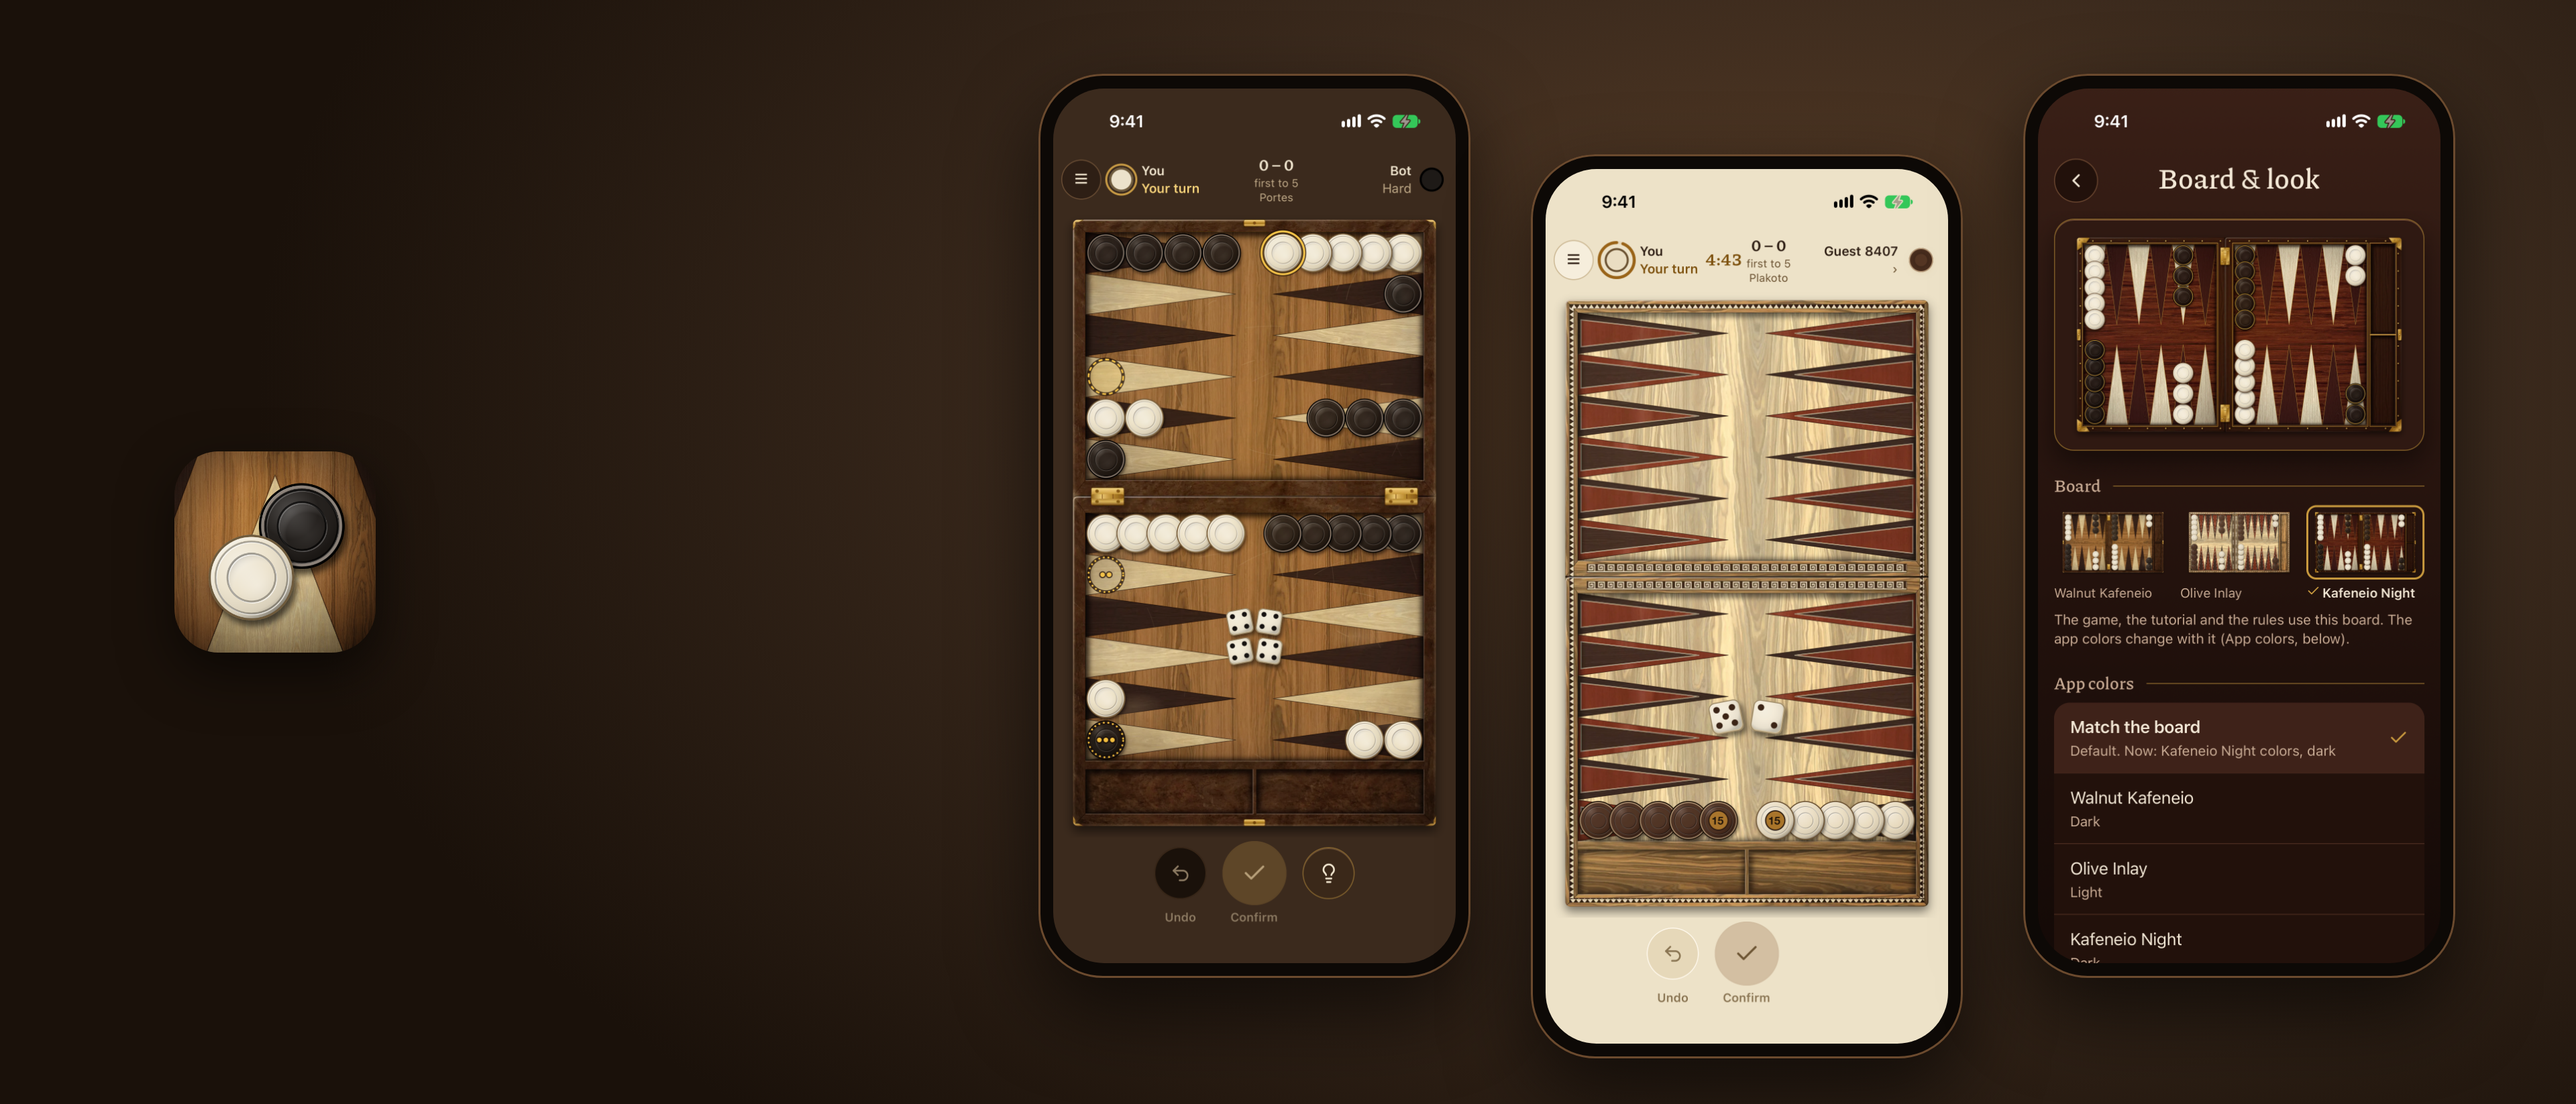
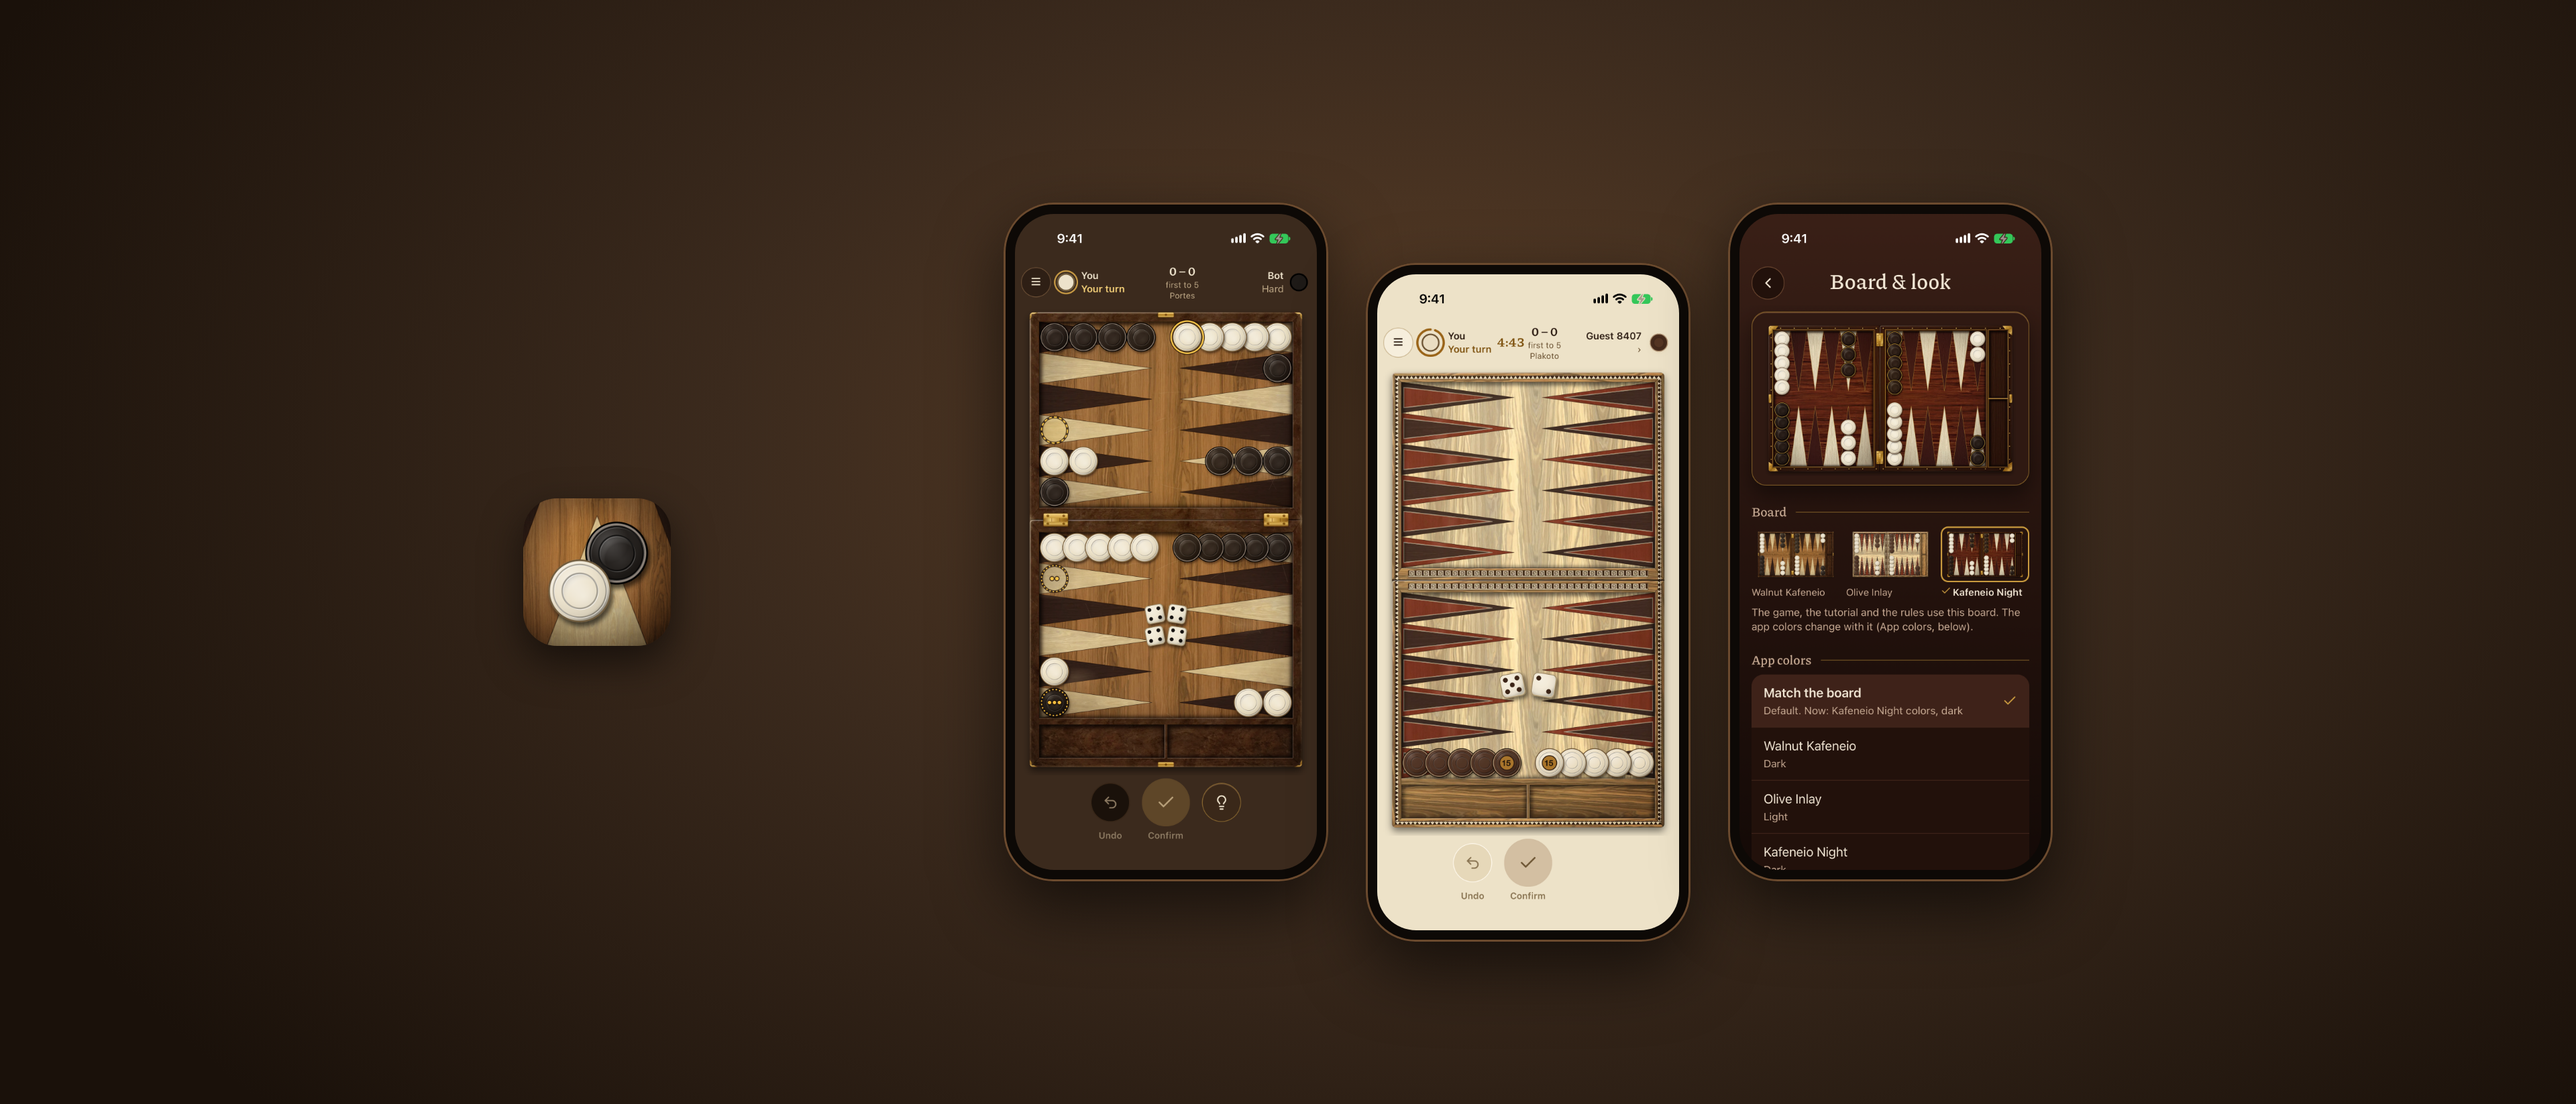
docs: fit the store header into the iPhone crop (#682) (#691)

diff --git a/docs/store/screenshots.md b/docs/store/screenshots.md
@@ -12,7 +12,7 @@ App Store Connect asks for these (v1.0 page, 2026-11-21):
 |-----|------|-----------|-------|
 | iPhone 6.3" | **1206 × 2622** portrait | iPhone 17 Pro | Required. Apple scales it for other iPhones. Up to 10 per language. |
 | iPhone Duo | **2853 × 2007** landscape (the open inner screen) | iPhone Duo, posture open | The app supports the open Duo (#649, #659). |
-| Header image (optional) | 3840 × 1646 | none | Made (2026-11-21): the icon, the name and three phone shots on the walnut colors. A second version has the phones only. Walnut, Olive Inlay and Kafeneio Night, left to right. |
+| Header image (optional) | 3840 × 1646 | none | Made (2026-11-21): the icon, the name and three phone shots on the walnut colors. A second version has the phones only. Walnut, Olive Inlay and Kafeneio Night, left to right. On an iPhone the store shows only the middle 2,490 px or so, so all of it sits in the middle 2,300 px. |
 | iPad | none | | The app is iPhone only (`ios.supportsTablet` is not set). |
 
 **Owner:** check the sizes in App Store Connect before you upload. Apple changes them from time to time.
